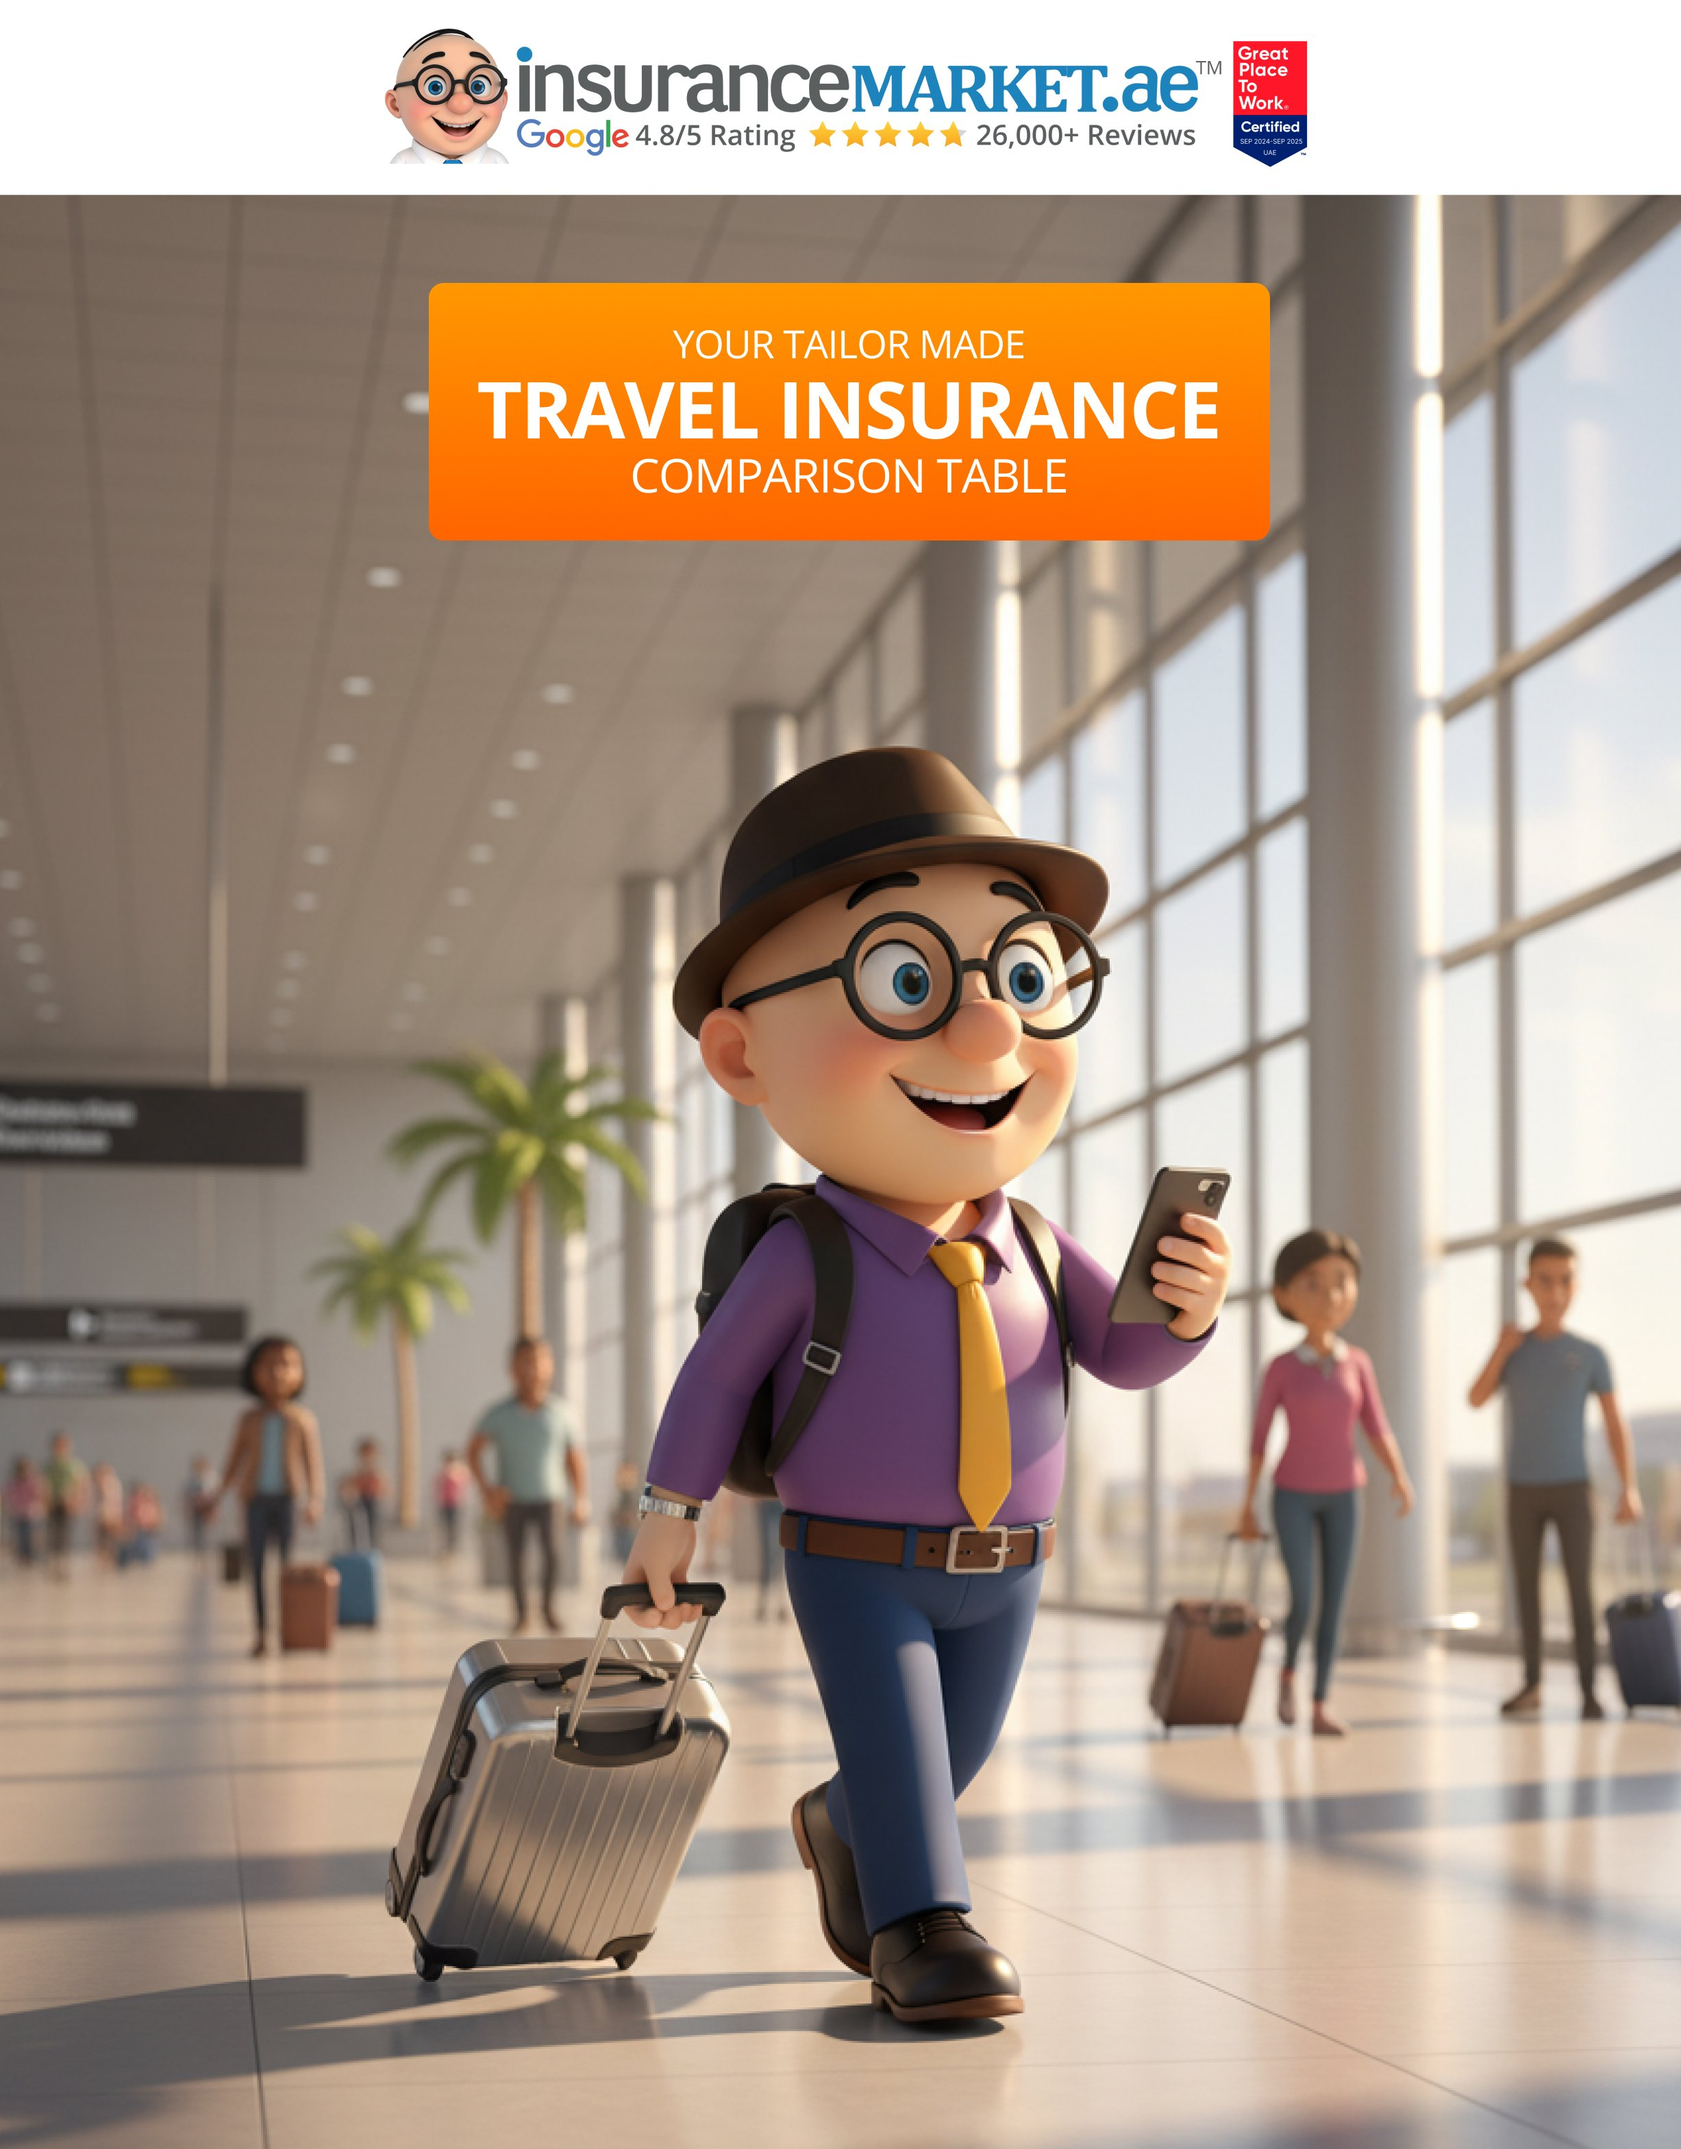
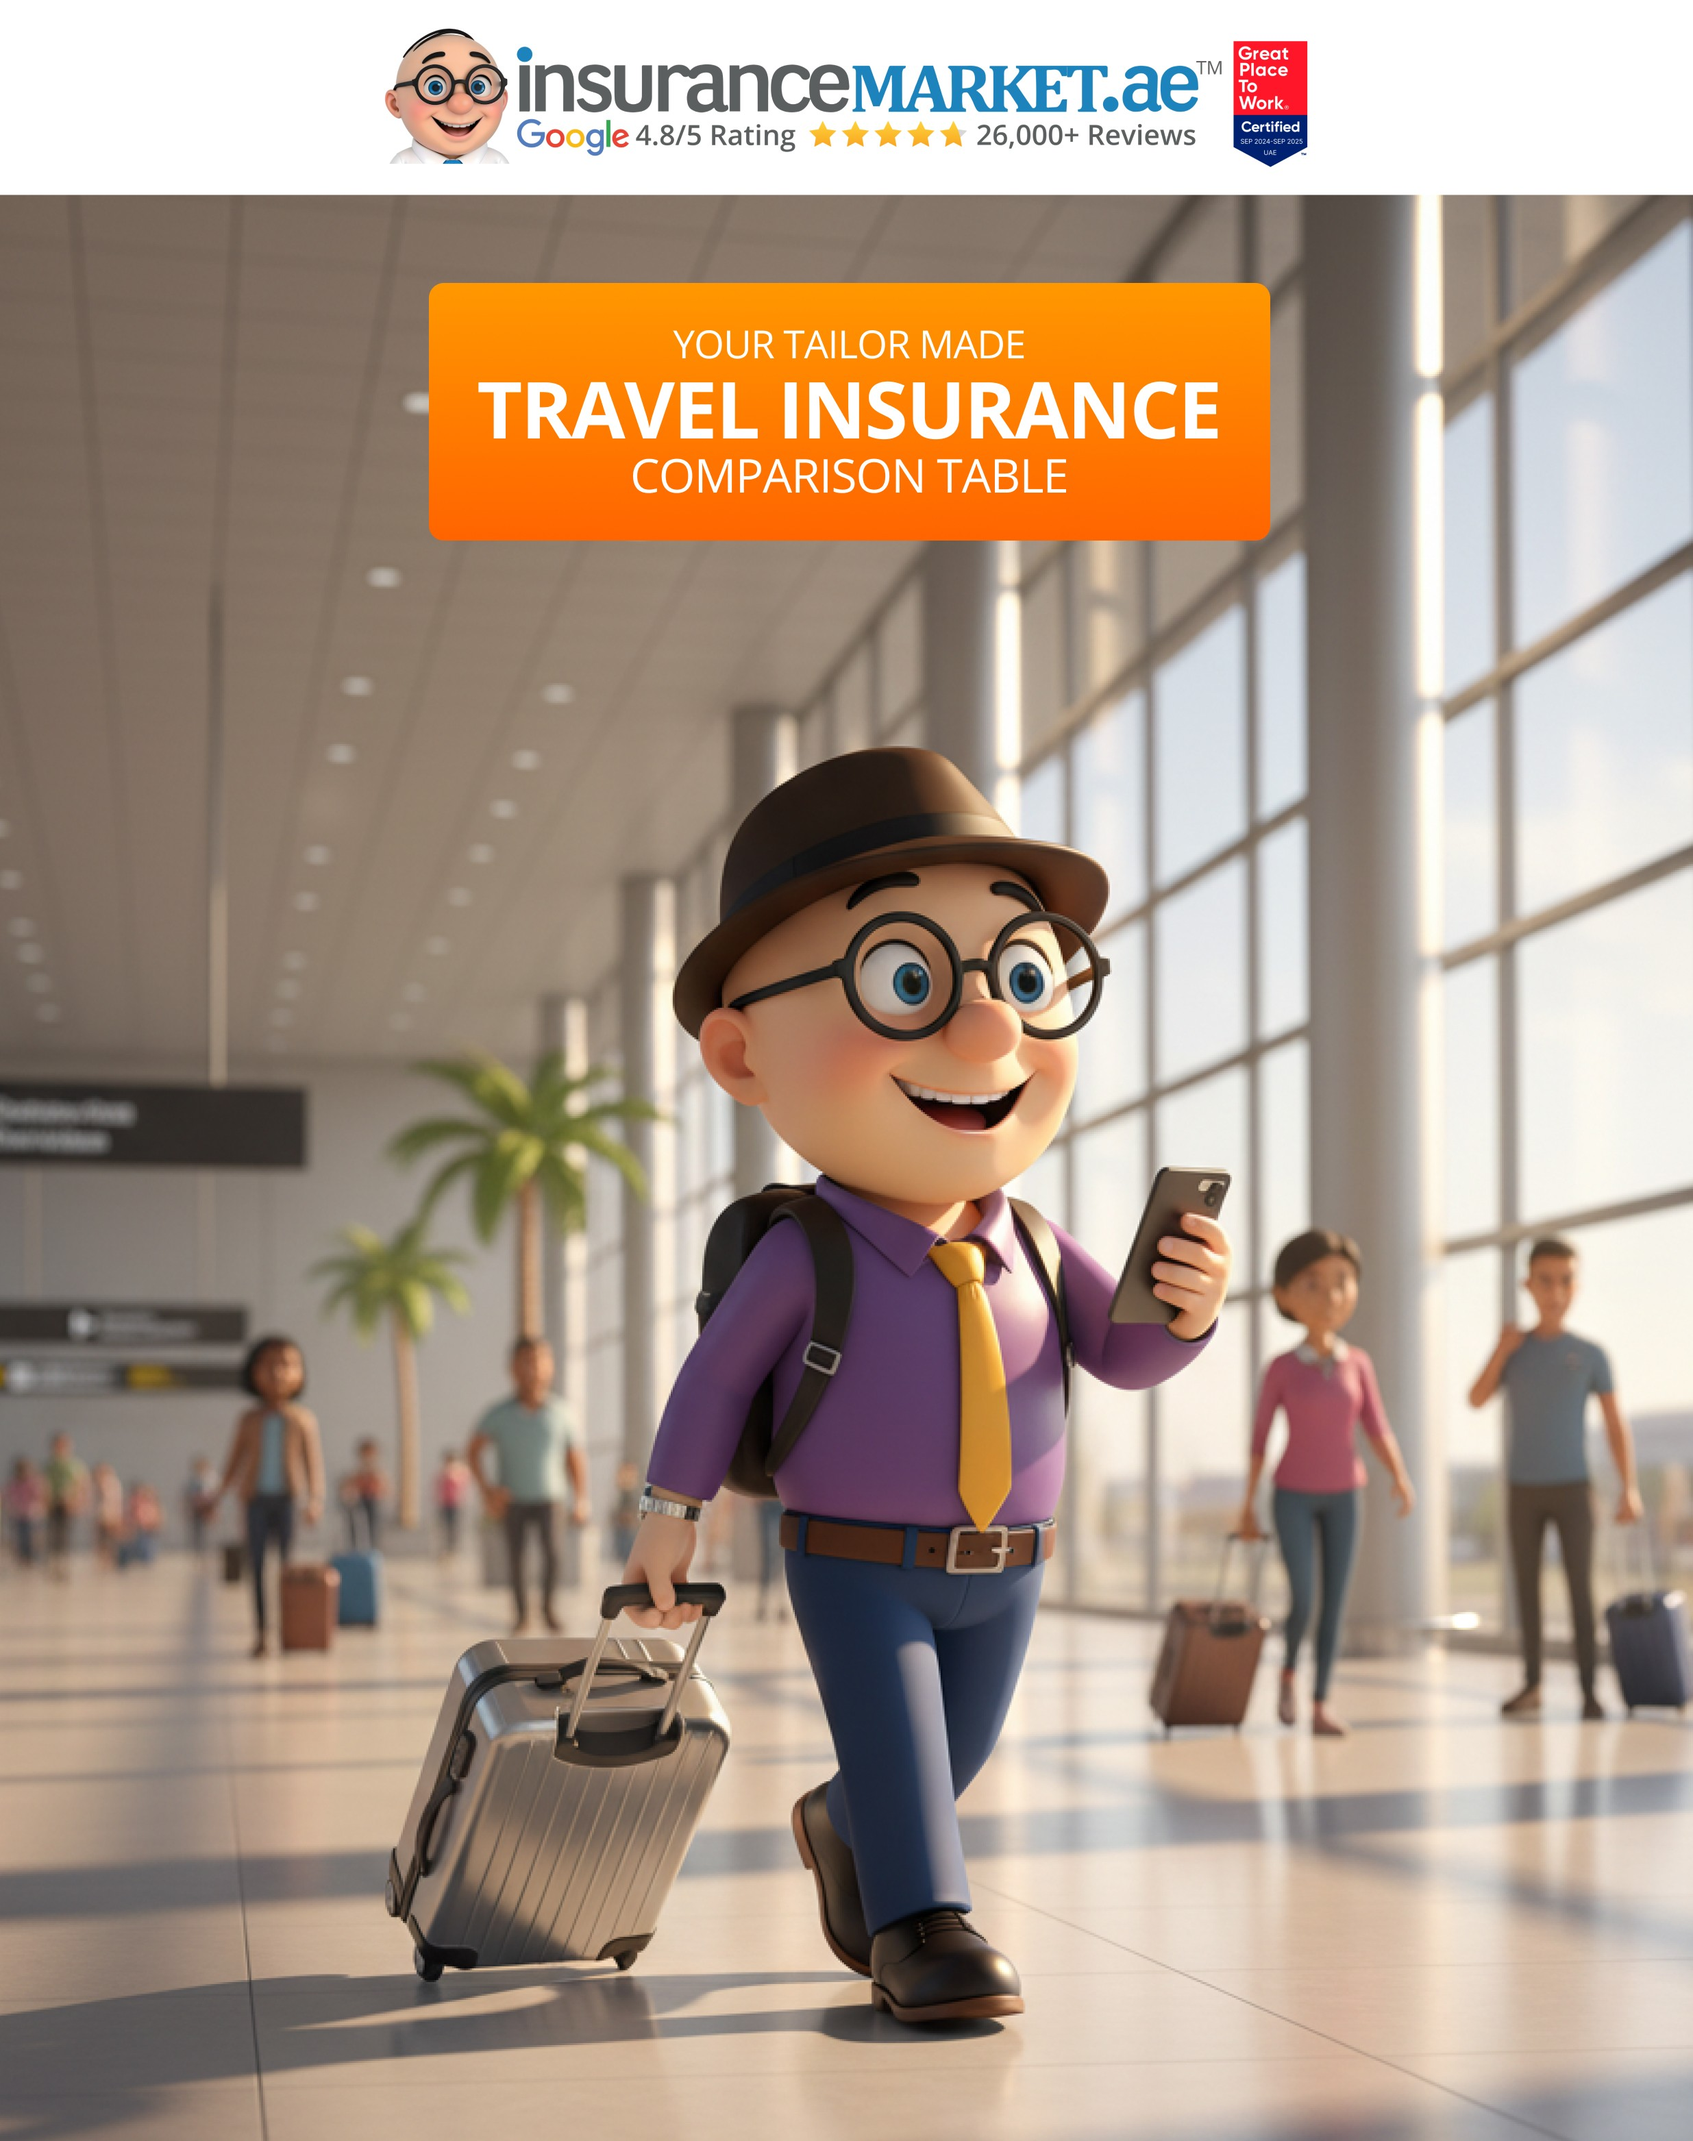
Update PDF image paths to use new comparison PDFs for bike, health, home, travel, and life quote plans

diff --git a/resources/views/pdf/life/comparision_pdf.blade.php b/resources/views/pdf/life/comparision_pdf.blade.php
@@ -681,7 +681,7 @@
 
     {{-- First Page --}}
     <div style="margin: 0; padding: 0; position: relative; z-index: 100;">
-        <img src="{{ public_path('images/quote_plans_pages/ecom-life/pdf-intro.jpg') }}" style="width: 100%; display: block; margin: 0; padding: 0; height: 90%;"/>
+        <img src="{{ public_path('images/quote_plans_pages/comparison_pdfs_images/life_first_page.jpg') }}" style="width: 100%; display: block; margin: 0; padding: 0; height: 90%;"/>
     </div>
     @component('pdf.components.pdf_footer_section',['quote' => $quote,'quoteType' => \App\Enums\quoteTypeCode::Life,'ecomInsuranceLink'=>config('constants.ECOM_LIFE_INSURANCE_QUOTE_URL').$quote->uuid])
       
@@ -691,7 +691,7 @@
 
     {{-- Second Page --}}
     <div style="margin: 0; padding: 0; position: relative; z-index: 100;">
-        <img src="{{ public_path('images/quote_plans_pages/commercial_car/commercial_car_second_page.jpg') }}" style="width: 100%; display: block; margin: 0; padding: 0;"/>
+        <img src="{{ public_path('images/quote_plans_pages/comparison_pdfs_images/second_page.jpg') }}" style="width: 100%; display: block; margin: 0; padding: 0;"/>
     </div>
     @component('pdf.components.pdf_footer_section',['quote' => $quote,'quoteType' => \App\Enums\quoteTypeCode::Life,'ecomInsuranceLink'=>config('constants.ECOM_LIFE_INSURANCE_QUOTE_URL').$quote->uuid])
       
@@ -1006,7 +1006,7 @@
     {{-- Third Page --}}
     <div style="page-break-after: always;"></div>
     <div style="margin: 0; padding: 0; position: relative; z-index: 100;">
-        <img src="{{ public_path('images/quote_plans_pages/commercial_car/commercial_car_second_last_page.jpg') }}" style="width: 100%; display: block; margin: 0; padding: 0;"/>
+        <img src="{{ public_path('images/quote_plans_pages/comparison_pdfs_images/second_last_page.jpg') }}" style="width: 100%; display: block; margin: 0; padding: 0;"/>
     </div>
     @component('pdf.components.pdf_footer_section',['quote' => $quote,'quoteType' => \App\Enums\quoteTypeCode::Life,'ecomInsuranceLink'=>config('constants.ECOM_LIFE_INSURANCE_QUOTE_URL').$quote->uuid])
       
@@ -1016,7 +1016,7 @@
     {{-- Fourth Page --}}
     <div style="page-break-after: always;"></div>
     <div style="margin: 0; padding: 0; position: relative; z-index: 100;">
-        <img src="{{ public_path('images/quote_plans_pages/commercial_car/commercial_car_last_page.jpg') }}" style="width: 100%; display: block; margin: 0; padding: 0;"/>
+        <img src="{{ public_path('images/quote_plans_pages/comparison_pdfs_images/last_page.jpg') }}" style="width: 100%; display: block; margin: 0; padding: 0;"/>
     </div>
     @component('pdf.components.pdf_footer_section',['quote' => $quote,'quoteType' => \App\Enums\quoteTypeCode::Life,'ecomInsuranceLink'=>config('constants.ECOM_LIFE_INSURANCE_QUOTE_URL').$quote->uuid])
       

diff --git a/resources/views/pdf/home_quote_plans.blade.php b/resources/views/pdf/home_quote_plans.blade.php
@@ -559,7 +559,7 @@
 <body style="margin: 0; padding: 0;">
     {{-- First Page --}}
     <div style="margin: 0; padding: 0; position: relative; z-index: 100;">
-        <img src="{{ public_path('images/quote_plans_pages/ecom_home/home_pdf_first_page_with_header_and_footer.jpg') }}" style="width: 100%; display: block; margin: 0; padding: 0; height: 90%;"/>
+        <img src="{{ public_path('images/quote_plans_pages/comparison_pdfs_images/home_first_page.jpg') }}" style="width: 100%; display: block; margin: 0; padding: 0; height: 90%;"/>
     </div>
     @component('pdf.components.pdf_footer_section',['quote' => $quote,'ecomInsuranceLink'=>config('constants.ECOM_HOME_INSURANCE_QUOTE_URL').$quote->uuid])
       
@@ -568,7 +568,7 @@
     <div style="page-break-after: always;"></div>
     {{-- Second Page --}}
     <div style="margin: 0; padding: 0; position: relative; z-index: 100;">
-        <img src="{{ public_path('images/quote_plans_pages/ecom_home/home_pdf_second_page_with_header.jpg') }}" style="width: 100%; display: block; margin: 0; padding: 0;"/>
+        <img src="{{ public_path('images/quote_plans_pages/comparison_pdfs_images/second_page.jpg') }}" style="width: 100%; display: block; margin: 0; padding: 0;"/>
     </div>
     @component('pdf.components.pdf_footer_section',['quote' => $quote,'ecomInsuranceLink'=>config('constants.ECOM_HOME_INSURANCE_QUOTE_URL').$quote->uuid])
       
@@ -1011,7 +1011,7 @@
 
     {{-- Second Last Page --}}
     <div style="margin: 0; padding: 0; position: relative; z-index: 100;">
-        <img src="{{ public_path('images/quote_plans_pages/ecom_home/home_pdf_second_last_page_with_header.jpg') }}" style="width: 100%; display: block; margin: 0; padding: 0;"/>
+        <img src="{{ public_path('images/quote_plans_pages/comparison_pdfs_images/second_last_page.jpg') }}" style="width: 100%; display: block; margin: 0; padding: 0;"/>
     </div>
     @component('pdf.components.pdf_footer_section',['quote' => $quote,'ecomInsuranceLink'=>config('constants.ECOM_HOME_INSURANCE_QUOTE_URL').$quote->uuid])
       
@@ -1021,7 +1021,7 @@
 
     {{-- Last Page --}}
     <div style="margin: 0; padding: 0; position: relative; z-index: 100;">
-        <img src="{{ public_path('images/quote_plans_pages/ecom_home/home_pdf_last_page_with_header.jpg') }}" style="width: 100%; display: block; margin: 0; padding: 0;"/>
+        <img src="{{ public_path('images/quote_plans_pages/comparison_pdfs_images/last_page.jpg') }}" style="width: 100%; display: block; margin: 0; padding: 0;"/>
     </div>
     @component('pdf.components.pdf_footer_section',['quote' => $quote,'ecomInsuranceLink'=>config('constants.ECOM_HOME_INSURANCE_QUOTE_URL').$quote->uuid])
       

diff --git a/resources/views/pdf/bike_quote_plans.blade.php b/resources/views/pdf/bike_quote_plans.blade.php
@@ -527,7 +527,7 @@
     @endphp
 
     <div style="margin: 0; padding: 0; position: relative; z-index: 100;">
-        <img src="{{ public_path('images/quote_plans_pages/imcrm_plans_bike_first_page.jpg') }}" style="width: 100%; display: block; margin: 0; padding: 0; height: 90%;"/>
+        <img src="{{ public_path('images/quote_plans_pages/comparison_pdfs_images/bike_first_page.jpg') }}" style="width: 100%; display: block; margin: 0; padding: 0; height: 90%;"/>
     </div>
 
     <div style="page-break-after: always;"></div>
@@ -765,7 +765,7 @@
 
     <div style="page-break-after: always;"></div>
     <div style="margin: 0; padding: 0; position: relative; z-index: 100;">
-        <img src="{{ public_path('images/quote_plans_pages/imcrm_plans_bike_last_page.jpg') }}" style="width: 100%; display: block; margin: 0; padding: 0; height: 90%;"/>
+        <img src="{{ public_path('images/quote_plans_pages/comparison_pdfs_images/last_page.jpg') }}" style="width: 100%; display: block; margin: 0; padding: 0; height: 90%;"/>
     </div>
     @component('pdf.components.pdf_footer_section',['quote' => $quote,'ecomInsuranceLink'=>config('constants.ECOM_BIKE_INSURANCE_QUOTE_URL').$quote->uuid])
       

diff --git a/resources/views/pdf/travel_quote_plans.blade.php b/resources/views/pdf/travel_quote_plans.blade.php
@@ -382,7 +382,7 @@
 <body style="margin: 0; padding: 0;">
     {{-- First Page --}}
     <div style="margin: 0; padding: 0; position: relative; z-index: 100;">
-        <img src="{{ public_path('images/quote_plans_pages/travel-p1-1.jpg') }}" style="width: 100%; display: block; margin: 0; padding: 0;"/>
+        <img src="{{ public_path('images/quote_plans_pages/comparison_pdfs_images/travel_first_page.jpg') }}" style="width: 100%; display: block; margin: 0; padding: 0;"/>
     </div>
 
     @php
@@ -956,7 +956,7 @@ foreach ($quotePlan->addons as &$addon) {
 
     {{-- Last Page --}}
     <div style="margin: 0; padding: 0; position: relative; z-index: 100;">
-        <img src="{{ public_path('images/quote_plans_pages/travel-p1-2.png') }}" class="full-page-image"  style="height: 90%;"/>
+        <img src="{{ public_path('images/quote_plans_pages/comparison_pdfs_images/last_page.jpg') }}" class="full-page-image"  style="height: 90%;"/>
     </div>
     @component('pdf.components.pdf_footer_section',['quote' => $quote,'ecomInsuranceLink'=>config('constants.ECOM_TRAVEL_INSURANCE_QUOTE_URL').$quote->uuid])
       

diff --git a/resources/views/pdf/health_quote_plans.blade.php b/resources/views/pdf/health_quote_plans.blade.php
@@ -356,7 +356,7 @@
 <body style="margin: 0; padding: 0;">
     {{-- First Page Cover --}}
     <div style="margin: 0; padding: 0; position: relative; z-index: 100;">
-        <img src="{{ public_path('images/quote_plans_pages/comparison-table-health.jpg') }}" style="width: 100%; display: block; margin: 0; padding: 0;"/>
+        <img src="{{ public_path('images/quote_plans_pages/comparison_pdfs_images/health_first_page.jpg') }}" style="width: 100%; display: block; margin: 0; padding: 0;"/>
     </div>
     @component('pdf.components.pdf_footer_section',['quote' => $quote,'ecomInsuranceLink'=>config('constants.ECOM_HEALTH_INSURANCE_QUOTE_URL').$quote->uuid])
     @endcomponent
@@ -936,7 +936,7 @@
     </main>
 
     {{-- Last Page --}}
-    <img src="{{ public_path('images/quote_plans_pages/rm-p3-2.png') }}" class="full-page-image" style="height:90%;" />
+    <img src="{{ public_path('images/quote_plans_pages/comparison_pdfs_images/last_page.jpg') }}" class="full-page-image" style="height:90%;" />
 </body>
 
 </html>
